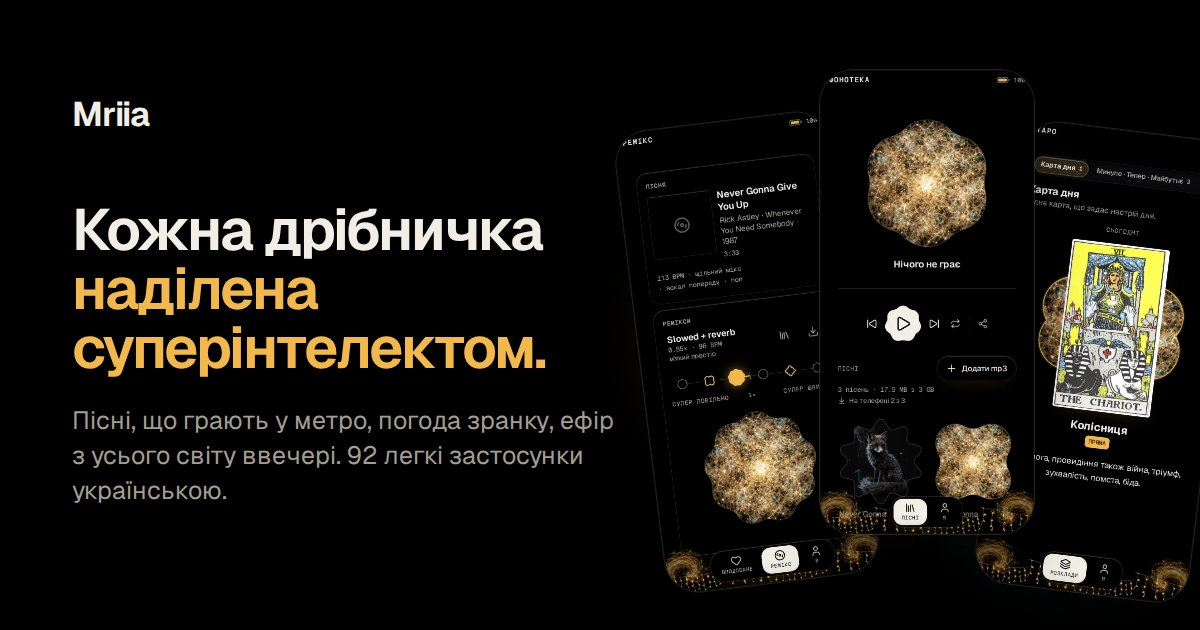
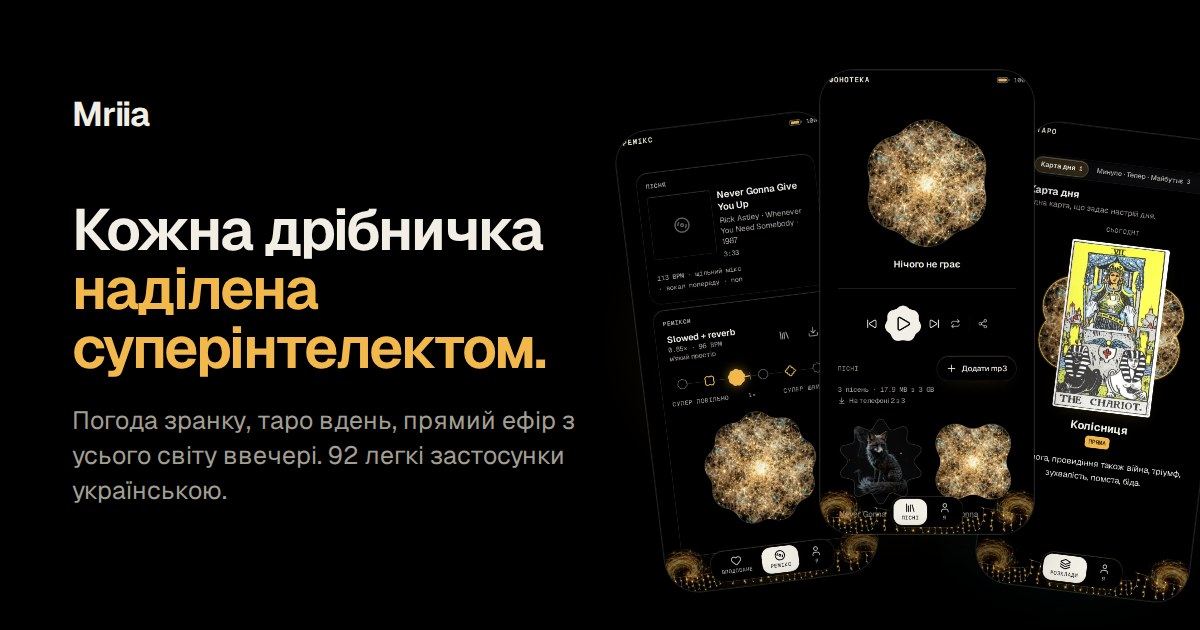
landing: no "works offline" promise anywhere
superintelligence slogan now, so the offline promise went from the page title, the meta and share descriptions,
the lede, the fonoteka moment and the og images, and the offline fact left the "lives" section (now "Always at
hand": install + language). Measured on a pod: 2 facts, no horizontal overflow at 384 and 1440, both languages.

Changed region(s): [[0.0617, 0.6333, 0.5242, 0.754]]

diff --git a/site/index.html b/site/index.html
@@ -207,11 +207,9 @@ footer .langs a[aria-current] { color: var(--ink); }
   <div>
     <h2 id="h-lives" class="rise">{{t livesTitle}}</h2>
     <div class="facts">
-      <div class="fact rise"><div class="ic" aria-hidden="true">{{ICON wifi-off}}</div>
-        <div><h3>{{t offlineTitle}}</h3><p>{{t offlineText}}</p></div></div>
-      <div class="fact rise" style="--d:80ms"><div class="ic" aria-hidden="true">{{ICON smartphone}}</div>
+      <div class="fact rise"><div class="ic" aria-hidden="true">{{ICON smartphone}}</div>
         <div><h3>{{t installTitle}}</h3><p>{{t installText}}</p></div></div>
-      <div class="fact rise" style="--d:160ms"><div class="ic" aria-hidden="true">{{ICON languages}}</div>
+      <div class="fact rise" style="--d:80ms"><div class="ic" aria-hidden="true">{{ICON languages}}</div>
         <div><h3>{{t langTitle}}</h3><p>{{t langText}}</p></div></div>
     </div>
   </div>
